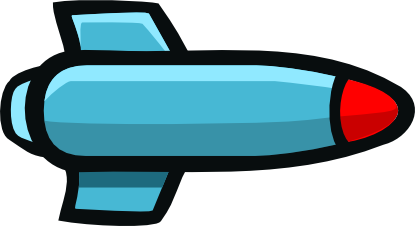
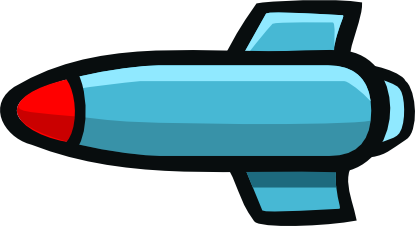
EliminamosCosasInnecesarias

diff --git a/game/src/DefendErusea.cpp b/game/src/DefendErusea.cpp
@@ -31,6 +31,11 @@ int main() {
     Texture2D yellowPlane = LoadTexture("resources/planes/plane_2/plane_2_yellow.png");
     Texture2D redPlane = LoadTexture("resources/planes/plane_2/plane_2_red.png");
 
+    //Enemigos
+    Texture2D bombMoveL = LoadTexture("resources/planes/torpedo/torpedo_black_left.png");
+    Texture2D bombMoveR = LoadTexture("resources/planes/torpedo/torpedo_black_right.png");
+    Texture2D bombStatic = LoadTexture("resources/planes/torpedo/torpedo.png");
+
     //MovimientoBackground
     float scrollingBack = 0.0f;
     float scrollingMid = 0.0f;
@@ -38,12 +43,12 @@ int main() {
 
     Vector2 currentPosition;
     currentPosition.x = 100;
-    currentPosition.y = 100;
+    currentPosition.y = 150;
 
     int playerHealth = 100;
 
-    Rectangle enemy1 = { 400, 350, 50, 50 };
-    Rectangle enemy2 = { 0, 300, 50, 50 };
+    Rectangle enemy1 = { 400, 250, 80, 45 };
+    Rectangle enemy2 = { 400, 100, 100, 35 };
     float enemy2Speed = 2.0f;
 
     while (!WindowShouldClose()) {
@@ -53,9 +58,9 @@ int main() {
         ClearBackground(BLACK);
 
         //BackGround movimiento
-        scrollingBack -= 0.2f;
-        scrollingMid -= 1.0f;
-        scrollingFore -= 2.0f;
+        scrollingBack -= 10.2f;
+        scrollingMid -= 10.0f;
+        scrollingFore -= 10.0f;
 
         if (scrollingBack <= -farBackGMountain.width * 2) scrollingBack = 0;
         if (scrollingMid <= -midBackGMountain.width * 2) scrollingMid = 0;
@@ -64,8 +69,13 @@ int main() {
         for (int i = 0; i < (SCREEN_WIDTH / SKY_WIDTH) + 1; i++) DrawTexture(skyBackGMountain, 0 + (i * SKY_WIDTH), 0, WHITE);
 
         DrawTexture(farBackGMountain, scrollingBack, 125, WHITE);
+        DrawTexture(farBackGMountain, scrollingBack + skyBackGMountain.width, 125, WHITE);
+
         DrawTexture(midBackGMountain, scrollingBack, 330, WHITE);
+        DrawTexture(midBackGMountain, scrollingBack + skyBackGMountain.width, 330, WHITE);
+         
         DrawTexture(forBackGMountain, scrollingBack, 400, WHITE);
+        DrawTexture(forBackGMountain, scrollingBack + skyBackGMountain.width, 400, WHITE);
         //Fin background
 
 
@@ -101,8 +111,12 @@ int main() {
         }
         //FIN Colision player - enemigo
 
-        DrawRectangleRec(enemy1, RED);
-        DrawRectangleRec(enemy2, RED);
+
+        DrawRectangleRec(enemy1, WHITE);
+        DrawTextureEx(bombStatic, { enemy1.x, enemy1.y }, 0.0f, 0.2f, WHITE);
+
+        DrawRectangleRec(enemy2, WHITE);
+        DrawTextureEx(bombMoveL, { enemy2.x, enemy2.y }, 0.0f, 0.2f, WHITE);
         //Fin enemigos
 
 
@@ -128,6 +142,10 @@ int main() {
     UnloadTexture(greenPlane);
     UnloadTexture(yellowPlane);
     UnloadTexture(redPlane);
+
+    UnloadTexture(bombMoveL);
+    UnloadTexture(bombMoveR);
+    UnloadTexture(bombStatic);
 
     CloseWindow();
 
